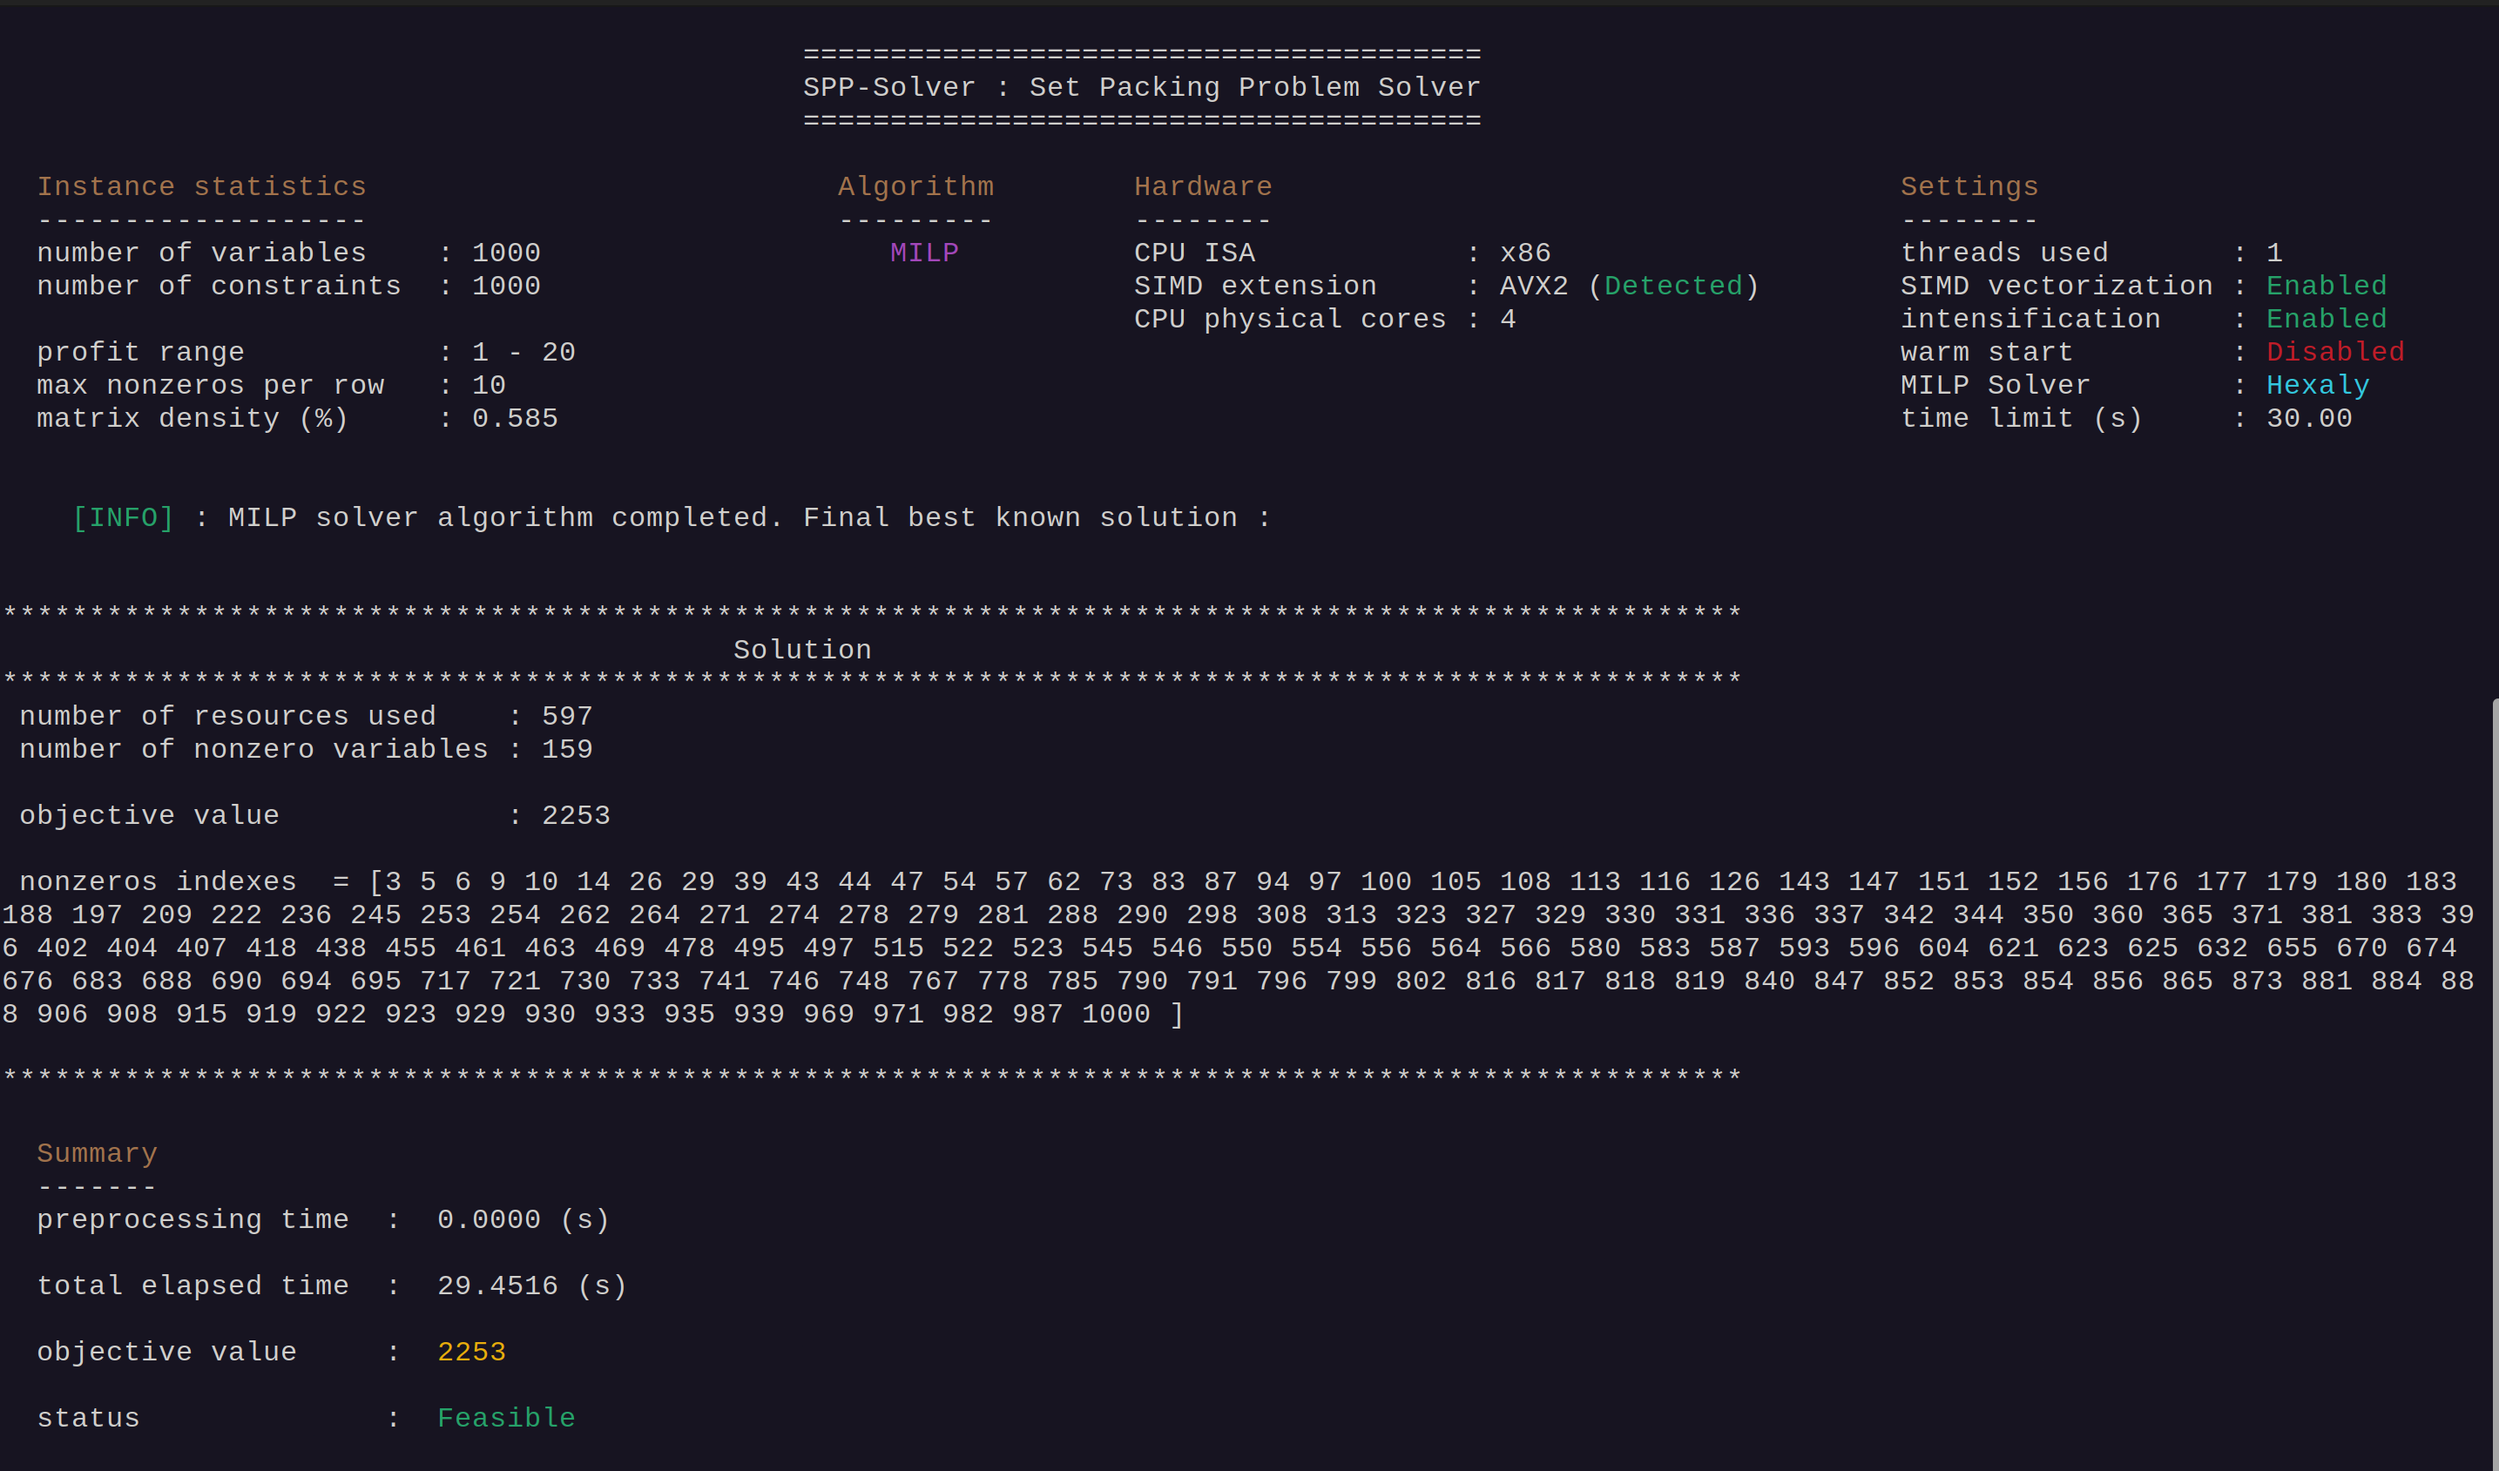
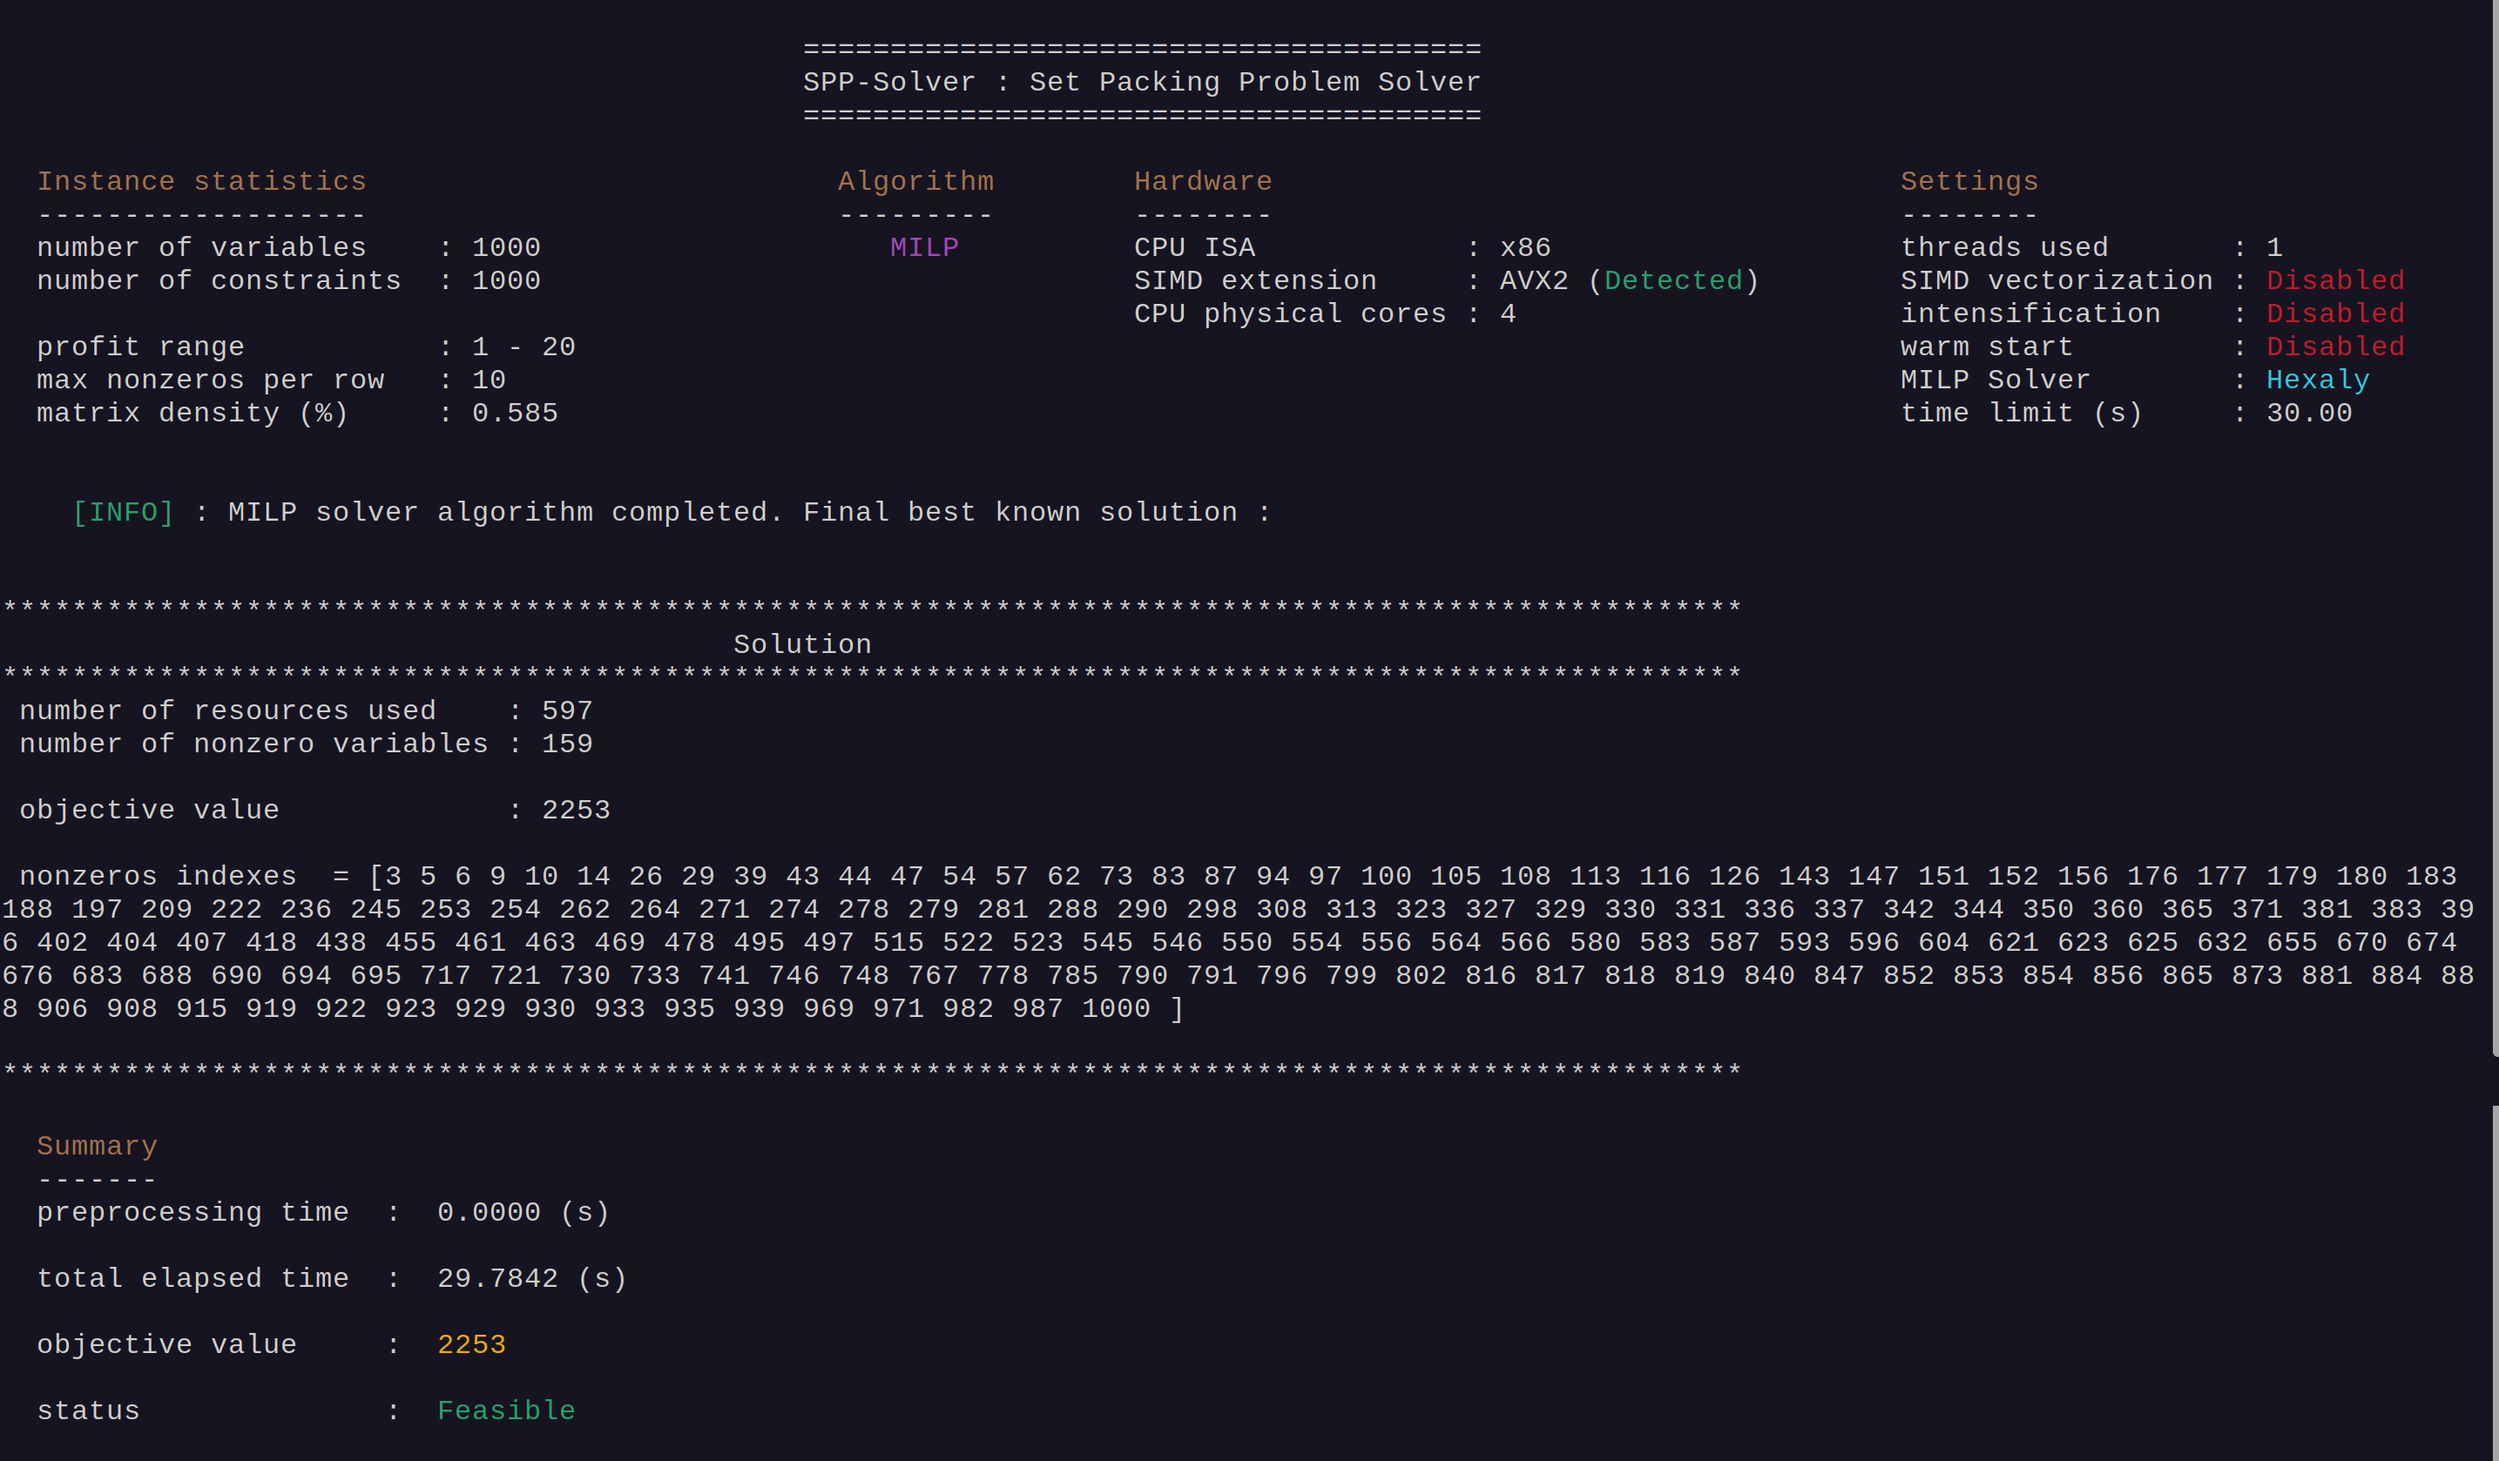
Update

diff --git a/src/solver/SPPSolver.cpp b/src/solver/SPPSolver.cpp
@@ -56,16 +56,16 @@
 
       float alpha = 1.0f;
 
-      // construction
+      /*// construction
         timer.start();
         Solution solution = constructAndImproveSolution(alpha, 
                                                         params, 
                                                         instance);
         solution.print(instance);
-        std::cout << " time : " << timer.getElapsedTime() << " (s) " << "   status : " << solution.getStatus() << " \n\n";
+        std::cout << " time : " << timer.getElapsedTime() << " (s) " << "   status : " << solution.getStatus() << " \n\n";*/
 
 
-      /*if(params.algorithm == Algorithm::Greedy){runGreedy(params);}
+      if(params.algorithm == Algorithm::Greedy){runGreedy(params);}
 
       else if(params.algorithm == Algorithm::BranchAndBound){
 
@@ -79,7 +79,7 @@
          #if USE_MILP
          runMilpSolver(params);
          #endif
-      }*/
+      }
 
    
          

diff --git a/src/input/OptionParser.cpp b/src/input/OptionParser.cpp
@@ -286,6 +286,14 @@
             log.error(" Hexaly must not be used for linear relaxation in the Branch And Bound algorithm! "); 
         }
 
+        if(params.algorithm == Algorithm::Milp && !params.warm_start){
+
+            if(params.use_simd){log.error(" --simd must not be used when --warm-start is not enabled in the milp algorithm! ");}
+
+            if(params.use_intensification){log.error(" --intensification must not be used when --warm-start is not enabled in the milp algorithm! ");}
+
+        }
+
         /*if(params.algorithm == gap::Algorithm::AntColonyOptimizer){unsupportedOptionsACO(argc, argv);}
 
         if(params.algorithm == gap::Algorithm::BranchAndBound){unsupportedOptionsBaB(argc, argv);}

diff --git a/README.md b/README.md
@@ -244,7 +244,7 @@ The executable is located in the **bin/** directory after installation.
 ## Run MILP Backend Solvers
 
 ```bash
-./bin/spp_solver --algorithm=milp --instance=benchmarks/pb_1000rnd0700.dat  --solver=hexaly --intensification  --simd  --time-limit=30 
+./bin/spp_solver --algorithm=milp --instance=benchmarks/pb_1000rnd0700.dat  --solver=hexaly --time-limit=30 
 ```
 
 - **--solver** (mandatory) : Selects the solver for the Linear Relaxation (Gurobi, Hexaly or Highs) .
@@ -257,7 +257,7 @@ The executable is located in the **bin/** directory after installation.
 >This feature was implemented to evaluate whether providing a warm start could help the solver prune suboptimal branches earlier and accelerate the search.
 
 
-- additional options : **--simd** and **--intensification**
+- additional options : **--simd** and **--intensification** only when **--warm-start** option is enabled
 
 ![](docs/images/run_milp.png)
 
